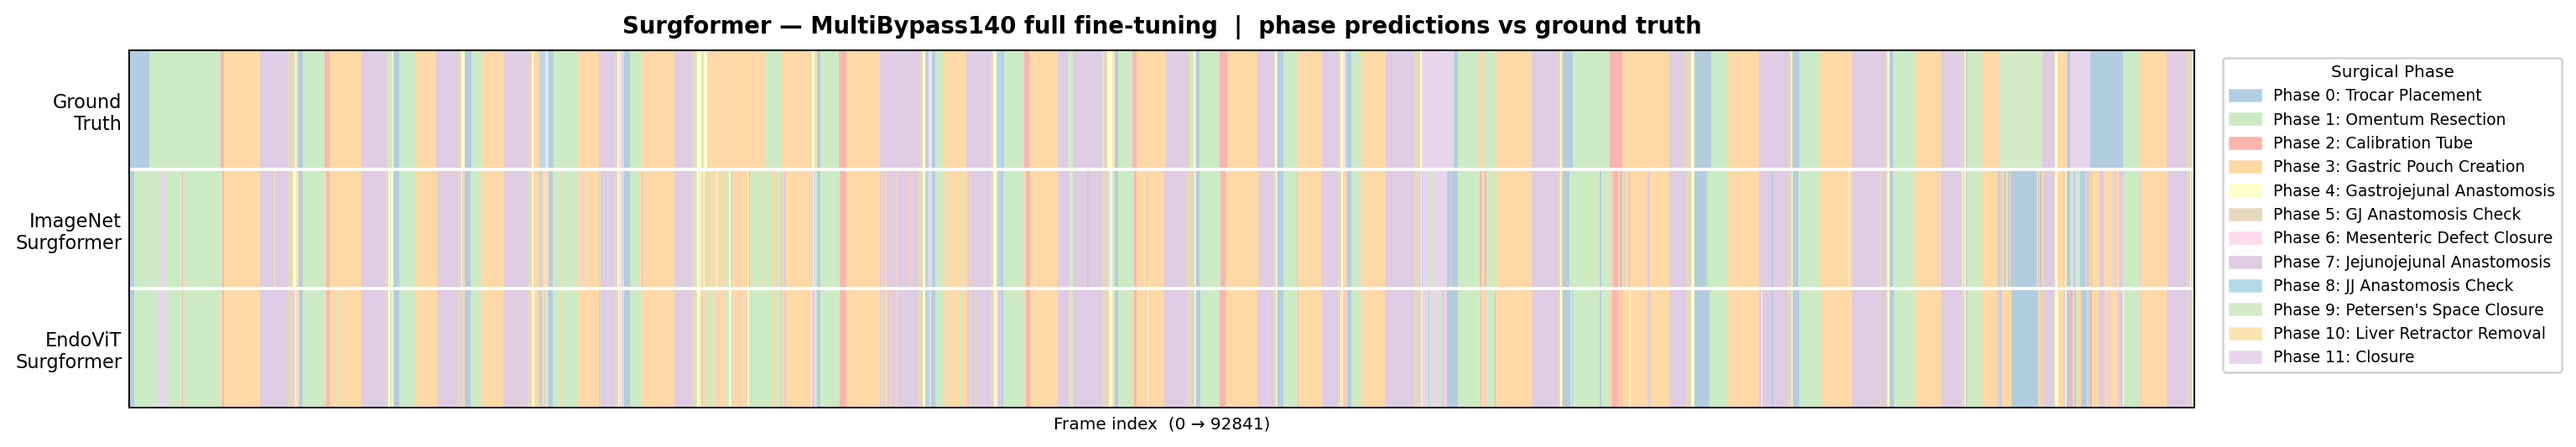
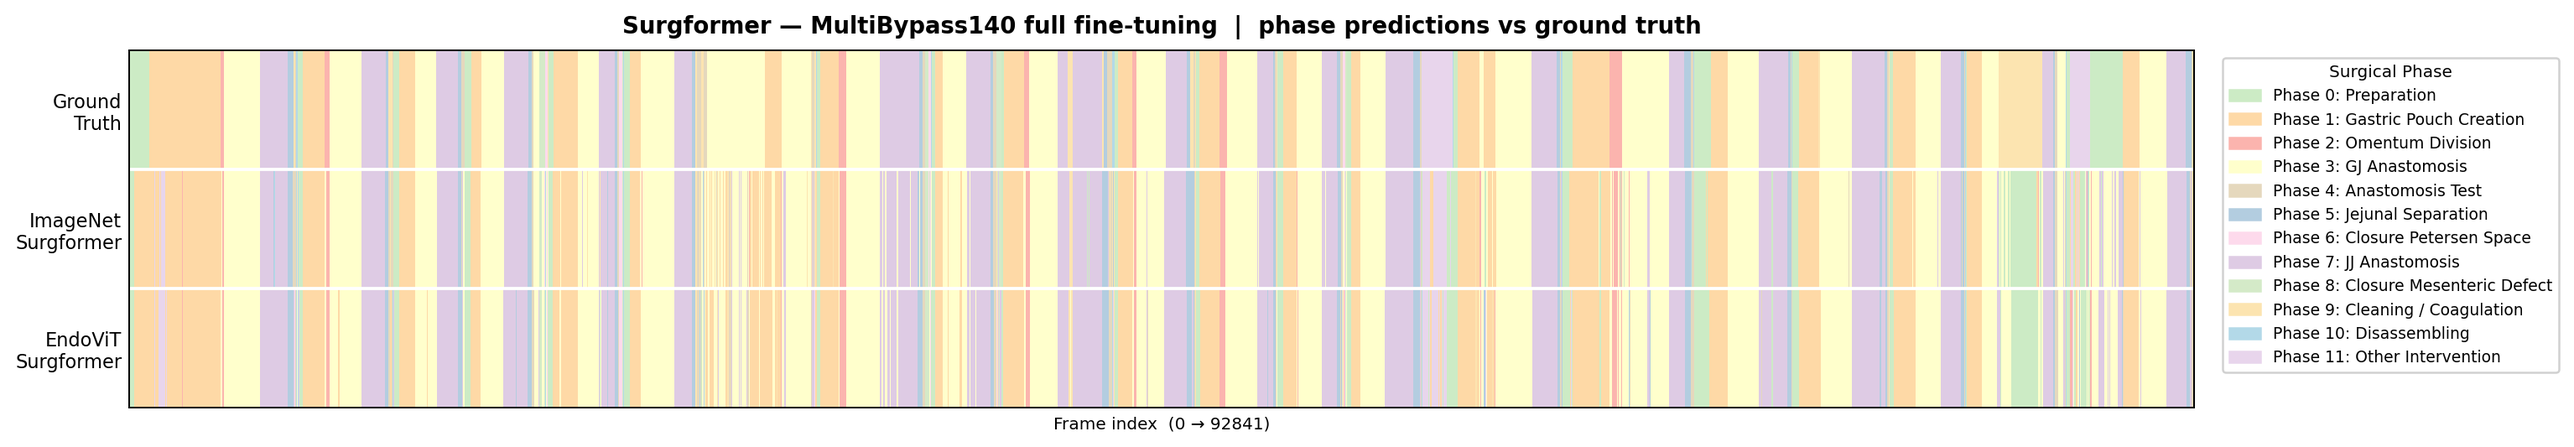
update phase names

diff --git a/scripts/plots/plot_phase_predictions.py b/scripts/plots/plot_phase_predictions.py
@@ -31,32 +31,32 @@ DATASETS = {
     },
     "multibypass140": {
         "phase_names": [
-            "Trocar\nPlacement",
-            "Omentum\nResection",
-            "Calibration\nTube",
+            "Preparation",
             "Gastric Pouch\nCreation",
-            "Gastrojejunal\nAnastomosis",
-            "GJ Anastomosis\nCheck",
-            "Mesenteric\nDefect Closure",
-            "Jejunojejunal\nAnastomosis",
-            "JJ Anastomosis\nCheck",
-            "Petersen's\nSpace Closure",
-            "Liver Retractor\nRemoval",
-            "Closure",
+            "Omentum\nDivision",
+            "GJ\nAnastomosis",
+            "Anastomosis\nTest",
+            "Jejunal\nSeparation",
+            "Closure\nPetersen Space",
+            "JJ\nAnastomosis",
+            "Closure\nMesenteric Defect",
+            "Cleaning /\nCoagulation",
+            "Disassembling",
+            "Other\nIntervention",
         ],
         "colors": [
-            "#b3cde0",  # Trocar Placement
-            "#ccebc5",  # Omentum Resection
-            "#fbb4ae",  # Calibration Tube
+            "#ccebc5",  # Preparation
             "#fed9a6",  # Gastric Pouch Creation
+            "#fbb4ae",  # Omentum Division
             "#ffffcc",  # GJ Anastomosis
-            "#e5d8bd",  # GJ Anastomosis Check
-            "#fddaec",  # Mesenteric Defect Cls.
+            "#e5d8bd",  # Anastomosis Test
+            "#b3cde0",  # Jejunal Separation
+            "#fddaec",  # Closure Petersen Space
             "#decbe4",  # JJ Anastomosis
-            "#b3d9e8",  # JJ Anastomosis Check
-            "#d4eac8",  # Petersen's Space Cls.
-            "#fce4b0",  # Liver Retractor Removal
-            "#e8d5ec",  # Closure
+            "#d4eac8",  # Closure Mesenteric Defect
+            "#fce4b0",  # Cleaning / Coagulation
+            "#b3d9e8",  # Disassembling
+            "#e8d5ec",  # Other Intervention
         ],
     },
     "m2cai16": {
